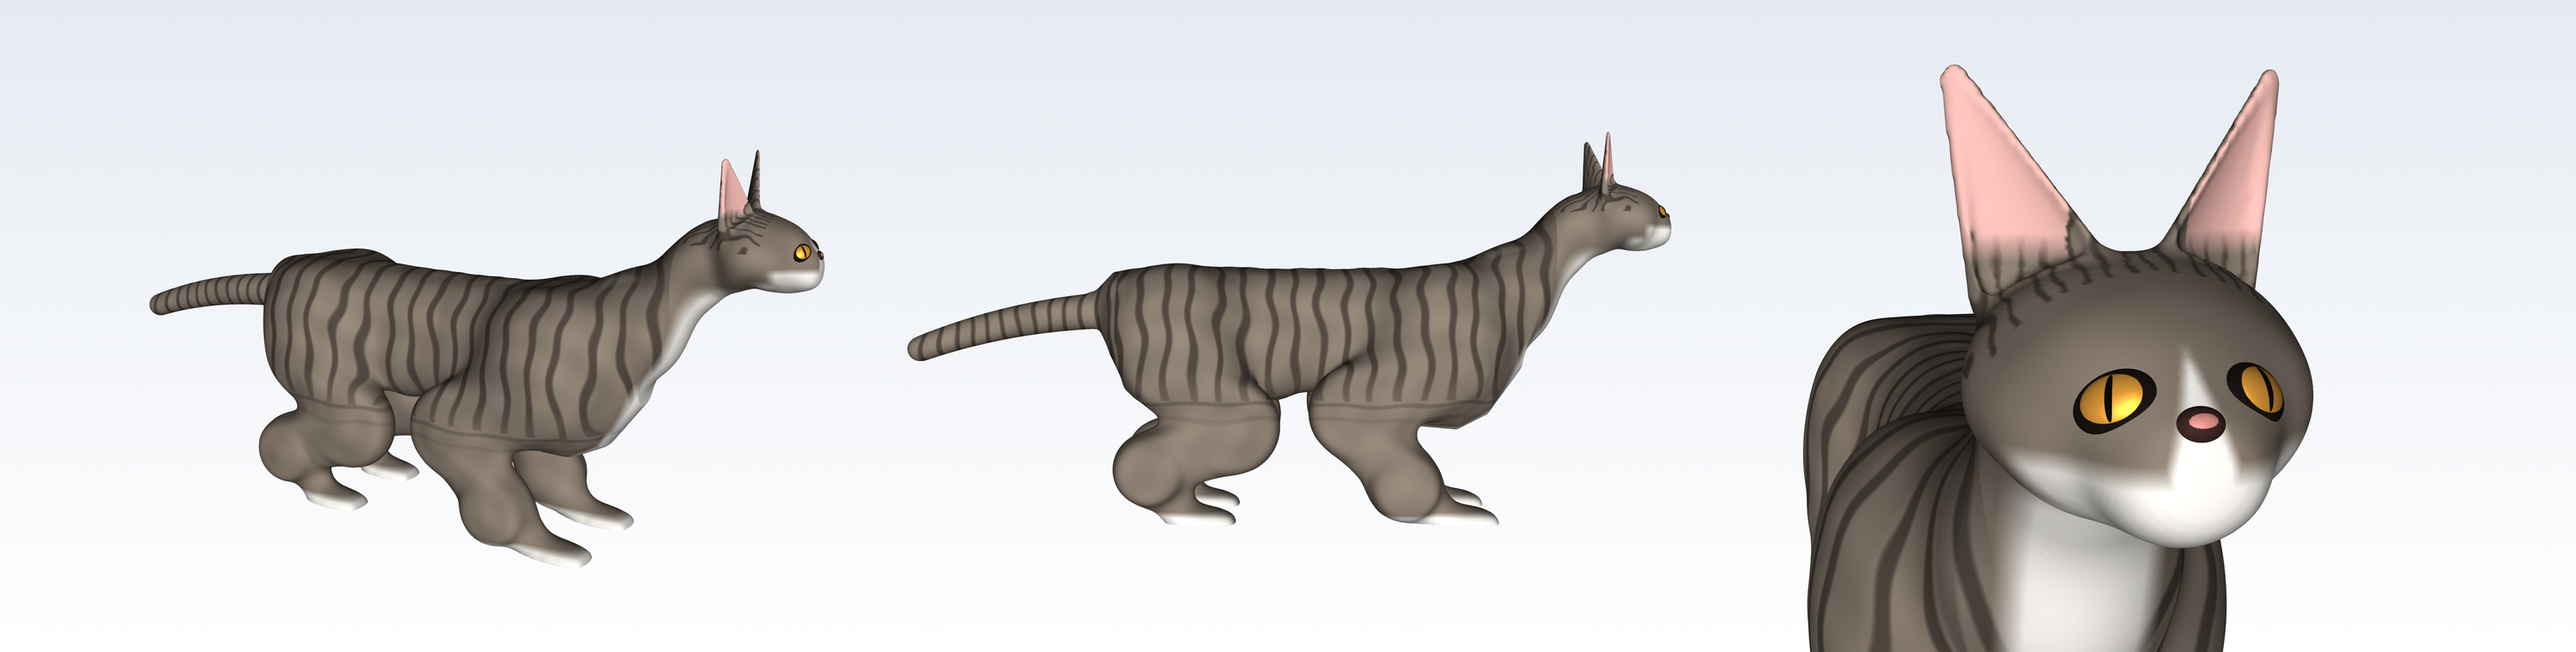
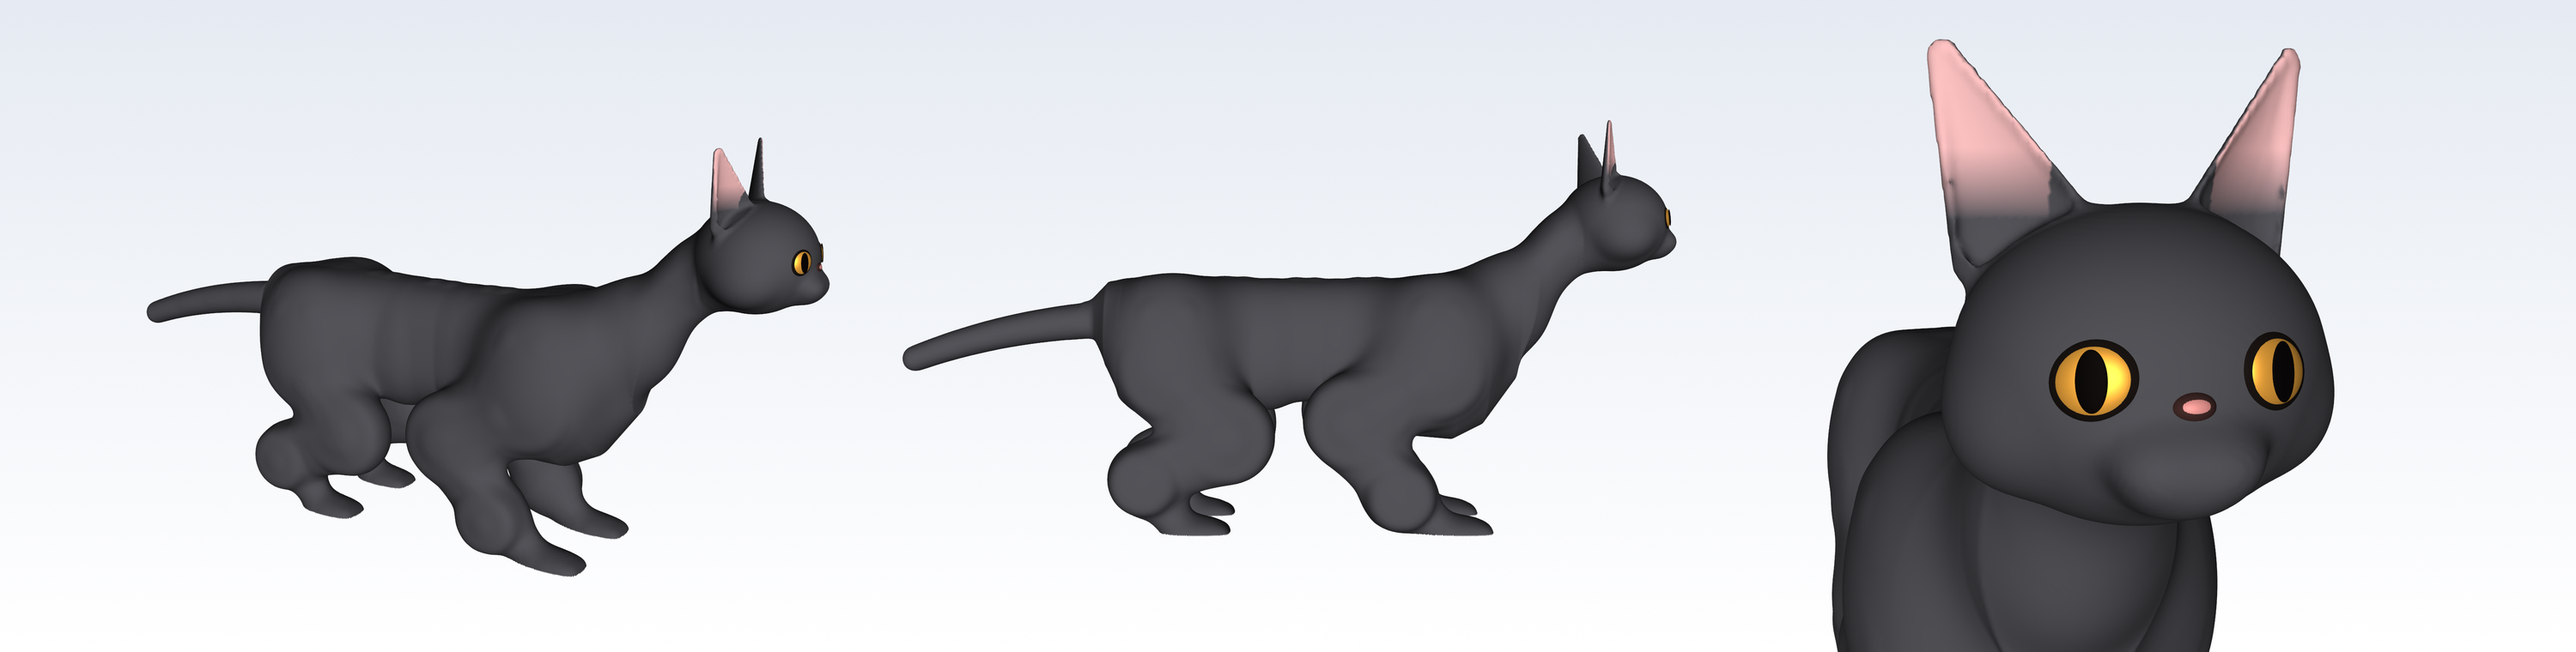
M129 revised again: a charcoal-grey coat, and a cat's head that the skull only has to fit inside (ADR-0120)
- The tabby pattern is dropped (done roughly it reads as creepy): one
  charcoal grey, pink inside the ears.
- In the head the structure's offset is faded out (x > 360 over 20 mm), so
  the head is drawn as a cat's -- 120 mm across against the skull's 74, a
  round forehead, cheeks set back and wide, a small muzzle and chin, ears
  56 mm tall -- and the skull only has to fit inside: clearance 8.56 mm.
- Big almond eyes with a wide oval pupil, placed as thin discs on the iris.
- Foam 124 g (head 54 g), +16.3 % pitch inertia; knit 117 g, +11.2 %.
- CAT_SUIT_VOXEL sets a coarser grid when memory is short (built at 1.5 mm).

Changed region(s): [[0.682, 0.0605, 0.93, 1.0], [0.031, 0.2118, 0.341, 0.8776], [0.341, 0.2118, 0.651, 0.8474]]

diff --git a/mechanical/cad/cat_suit.py b/mechanical/cad/cat_suit.py
@@ -58,7 +58,7 @@ from tomcat_kin import LegModel                                  # noqa: E402
 from tomcat_kin.params import DEFAULT_FORELEG, DEFAULT_HINDLEG   # noqa: E402
 
 #: Grid spacing of the field, mm.
-VOXEL = 1.25
+VOXEL = float(os.environ.get("CAT_SUIT_VOXEL", "1.25"))   # coarser for a preview
 #: How far the suit stands off every structural surface, at least, mm. The
 #: same 2.0 mm `tomcat_skin.CLEAR` holds, plus a voxel's worth of meshing error.
 OFFSET = 2.0 + VOXEL
@@ -69,7 +69,7 @@ CLEAR = SK.CLEAR
 #: what the face is made of.  `[assumed]`
 PAD = 6.0
 #: The deepest the foam is laid, mm: the face's cheeks and chin, the chest.
-FOAM_MAX = 25.0
+FOAM_MAX = 35.0
 #: How much the structure's offset is blurred before the foam follows it, mm.
 SMOOTH = 4.0
 #: Foam densities priced, kg/m^3: the soft PU foam chosen, and a silicone foam
@@ -171,31 +171,36 @@ SLEEVE = (
     (9.0 + PAD, 7.5 + PAD, 53.0, 11.0 + PAD),                      # paw
 )
 
-#: ✅ M129: the face the skull does not have, `(name, centre, radii)` mm in
-#: trunk coordinates, mirrored for the paired ones. The traced skull is a dry
-#: skull: its underside runs flat at z 118-128 from the nose back, with no
-#: mandible, no cheek and no muzzle pad, so a cover drawn over it is a beak.
-#: ⚠ M129's first face was a ball -- crown, cheeks and muzzle all round, ears
-#: small -- and it read as a cartoon dinosaur, not a cat. A cat's face is a
-#: WEDGE: the width is at the cheekbones under the eyes, and it narrows to a
-#: small muzzle and a small chin; the ears are what make the head's outline.
-#: Proportions from the owner's cat, read off a frontal photograph (not in the
-#: repo): ears 0.55 of the face's width tall on a base 0.45 of it, eyes 0.38
-#: of it apart, the muzzle 0.35 of it wide.  `[assumed]`
+#: ✅ M129: the HEAD, `(name, centre, radii)` mm in trunk coordinates,
+#: mirrored for the paired ones.
+#:
+#: ⚠ **Drawn as a cat's head, not over the skull.** The traced skull is a dry
+#: skull with no mandible, and two faces built ON it -- one round, one a wedge
+#: after the owner's cat -- both came out too small and the wrong shape: a
+#: cover follows what is under it, and what is under it is not a face. So in
+#: the head the structure's offset is faded out (`HEAD_FREE_X`) and these
+#: shapes alone make the head: bigger than the skull all round (108 mm across
+#: against its 74), a round forehead, full cheeks wider than the crown, a
+#: small muzzle and chin. The skull only has to fit inside, and the clearance
+#: check says whether it does.  `[assumed]`
 FACE = (
-    ("crown", (391.0, 0.0, 154.0), (40.0, 41.0, 28.0)),
-    ("cheek", (403.0, 24.0, 145.0), (21.0, 18.0, 15.0)),
-    ("whisker pad", (438.0, 8.0, 131.0), (9.5, 9.0, 8.5)),
-    ("chin", (428.0, 0.0, 122.0), (15.0, 11.0, 9.0)),
-    ("muzzle", (432.0, 0.0, 135.0), (16.0, 15.0, 12.0)),
+    ("head", (402.0, 0.0, 152.0), (56.0, 60.0, 51.0)),
+    ("cheek", (404.0, 42.0, 138.0), (26.0, 20.0, 22.0)),
+    ("muzzle", (450.0, 0.0, 134.0), (13.0, 18.0, 11.0)),
+    ("whisker pad", (456.0, 9.0, 131.0), (9.0, 10.0, 8.0)),
+    ("chin", (446.0, 0.0, 122.0), (11.0, 12.0, 7.0)),
 )
 #: Blend radius of the face, mm.
-K_FACE = 9.0
-#: The ears, `(base, tip, base radius, tip radius)` mm, thin fore-and-aft by
-#: `EAR_THIN`, and CUPPED: a cat's ear is a scoop open to the front, not a
-#: plate. 52 mm tall on a 42 mm base, leaning out 21 deg -- the owner's
-#: cat's, scaled to this face.  `[assumed]`
-EAR = ((385.0, 25.0, 176.0), (379.0, 45.0, 229.0), 21.0, 4.5)
+K_FACE = 10.0
+#: Where the structure stops shaping the suit: its offset fades out over
+#: `HEAD_FADE` mm forward of this x, and the head is `FACE` alone.
+HEAD_FREE_X = 360.0
+HEAD_FADE = 20.0
+#: The ears, `(base, tip, base radius, tip radius)` mm, thin along the way
+#: they open by `EAR_THIN`, and CUPPED: a cat's ear is a scoop open to the
+#: front, not a plate. Set on the head's upper sides, 54 mm tall, leaning out.
+#: `[assumed]`
+EAR = ((390.0, 36.0, 192.0), (382.0, 58.0, 248.0), 25.0, 6.0)
 EAR_THIN = 3.0
 #: How deep the front of the ear is scooped, mm.
 EAR_CUP = 2.6
@@ -416,6 +421,13 @@ def field(points, stats=None):
     # through it. Blurring a distance field pulls it in round sharp features,
     # and the clearance check measures what that costs.
     F = ndimage.gaussian_filter(dist, SMOOTH / VOXEL) - (OFFSET + PAD)
+    # the head is FACE alone: fade the structure's offset out forward of
+    # HEAD_FREE_X (above the chest), so the skull shapes nothing
+    xs = lo[0] + VOXEL * np.arange(n[0])
+    zs0 = lo[2] + VOXEL * np.arange(n[2])
+    fade = np.clip((xs - HEAD_FREE_X) / HEAD_FADE, 0.0, 1.0)[:, None, None] \
+        * np.clip((zs0 - 90.0) / 10.0, 0.0, 1.0)[None, None, :]
+    F += (60.0 * fade).astype(np.float32)
     # the cat, one x-slab at a time
     ys = lo[1] + VOXEL * np.arange(n[1])
     zs = lo[2] + VOXEL * np.arange(n[2])
@@ -685,11 +697,11 @@ def report(cache=None, pd=None, points=None, st=None):
 #: placed where its ray leaves the suit. The eyes are ALMONDS set into the
 #: face looking forward -- an amber iris, a slit pupil, a dark rim -- and the
 #: nose a small pink wedge with a dark edge: the owner's cat's.  `[assumed]`
-EYE = ((404.0, 15.5, 150.0), (0.99, 0.08, 0.10))
+EYE = ((424.0, 24.0, 155.0), (0.99, 0.12, 0.05))
 #: Eye half-sizes, mm: (depth, width, height).
-EYE_R = (4.5, 9.5, 7.2)
-NOSE = ((430.0, 0.0, 139.0), (0.92, 0.0, 0.40))
-NOSE_R = (3.5, 5.5, 3.8)
+EYE_R = (5.0, 12.5, 11.0)
+NOSE = ((440.0, 0.0, 140.0), (0.90, 0.0, 0.43))
+NOSE_R = (3.5, 6.0, 4.0)
 
 
 def _surface(F, lo, p0, d, reach=90.0):
@@ -738,9 +750,12 @@ def face_features(F, lo):
         tilt = -12.0 * sgn                      # the almond's outer corner up
         out.append(("rim", c - 0.6 * d, (dz, wy + 1.4, hz + 1.2), d, tilt))
         out.append(("iris", c, (dz, wy, hz), d, tilt))
-        out.append(("pupil", c + 1.5 * d, (dz * 0.8, 1.7, hz * 0.85), d, 0.0))
-        g = c + 0.55 * dz * d + np.array([0.0, -2.8 * sgn, 2.6])
-        out.append(("glint", g, (1.3, 1.6, 1.6), d, 0.0))
+        # a wide oval pupil -- a slit reads as fierce
+        # ⚠ a thin disc ON the iris's front: set inside it, only a sliver
+        # of the pupil and none of the catch-light showed
+        out.append(("pupil", c + (dz - 0.35) * d, (0.8, 4.6, hz * 0.80), d, 0.0))
+        g = c + (dz - 0.2) * d + np.array([0.0, -3.0 * sgn, 3.0])
+        out.append(("glint", g, (0.9, 1.9, 1.9), d, 0.0))
     s, _ray = _surface(F, lo, *NOSE)
     d = _normal(F, lo, s)
     out.append(("nose rim", s - 0.6 * NOSE_R[0] * d, tuple(r + 0.8 for r in NOSE_R), d, 0.0))
@@ -749,71 +764,24 @@ def face_features(F, lo):
 
 
 # --------------------------------------------------------------------- coat
-#: The owner's cat's coat: a brown-grey mackerel tabby with white -- a white
-#: blaze up the nose, a white muzzle, chin, throat, chest and paws -- warm
-#: orange round the eyes, pink inside the ears.  `[assumed]`
-COAT = {
-    "base": (0.50, 0.45, 0.40), "stripe": (0.22, 0.19, 0.17),
-    "white": (0.95, 0.94, 0.92), "orange": (0.78, 0.52, 0.32),
-    "pink": (0.93, 0.71, 0.68),
-}
-
-
-def _noise(P, scale):
-    """A cheap smooth noise: a few incommensurate sines."""
-    x, y, z = P[:, 0] / scale, P[:, 1] / scale, P[:, 2] / scale
-    return (np.sin(1.7 * x + 2.3 * y + 0.5) * np.sin(1.3 * z - 0.9 * x + 1.1)
-            + 0.5 * np.sin(3.1 * y + 2.9 * z + 0.3 * x))
-
-
-def _mix(a, b, w):
-    return a * (1 - w[:, None]) + np.asarray(b) * w[:, None]
+#: ✅ A charcoal-grey coat, one colour, with pink inside the ears. A tabby
+#: pattern was tried and dropped: a pattern done roughly reads as worse than
+#: none.  `[assumed]`
+COAT = {"fur": (0.27, 0.27, 0.29), "pink": (0.90, 0.68, 0.68)}
 
 
 def coat(P, N):
     """Per-vertex colour, 0..1, of the suit at points P with outward normals N."""
     x, y, z = P[:, 0], P[:, 1], P[:, 2]
-    C = np.tile(np.asarray(COAT["base"], float), (len(P), 1))
-    C *= (1.0 + 0.05 * _noise(P, 20.0))[:, None]        # mottling
-    head = x > 330.0
-    # mackerel stripes: across the body (dorsal to ventral), ringing the
-    # legs and the tail, and the forehead's "M" lines on the crown
-    leg = z < -40.0
-    tail = x < TT.BODIES[0][0] - 10.0
-    phase = np.where(tail, x / 17.0, np.where(leg, z / 16.0, x / 26.0))
-    phase = phase + 0.15 * _noise(P, 30.0)
-    crown = head & (z > 152.0) & (x < 412.0)
-    phase = np.where(crown, y / 6.0 + 0.2 * _noise(P, 8.0), phase)
-    band = np.clip((np.sin(2 * np.pi * phase) - 0.45) * 2.6, 0.0, 1.0)
-    band *= np.clip((z + 70.0) / 60.0, 0.0, 1.0) * np.where(head & ~crown, 0.0, 1.0)
-    C = _mix(C, COAT["stripe"], 0.80 * band)
-    # a tabby is darker along the spine
-    C = _mix(C, COAT["stripe"], 0.35 * np.clip((z - 70.0) / 40.0, 0.0, 1.0) * (~head))
-    # the white: belly and chest underneath, throat and chin, the muzzle and
-    # a blaze up the nose between the eyes, and the paws
-    under = np.clip((-30.0 - z) / 16.0, 0.0, 1.0) * np.clip((x - 120.0) / 40.0, 0.0, 1.0) \
-        * np.clip((32.0 - np.abs(y)) / 8.0, 0.0, 1.0) * np.clip((z + 95.0) / 10.0, 0.0, 1.0)
-    throat = np.clip((x - 255.0) / 25.0, 0.0, 1.0) * np.clip((118.0 - z) / 16.0, 0.0, 1.0) \
-        * np.clip((30.0 - np.abs(y)) / 10.0, 0.0, 1.0)
-    muzzle = np.clip((x - 418.0) / 8.0, 0.0, 1.0) * np.clip((140.0 - z) / 6.0, 0.0, 1.0)
-    chin = np.clip((x - 400.0) / 10.0, 0.0, 1.0) * np.clip((128.0 - z) / 6.0, 0.0, 1.0)
-    blaze_w = np.clip(10.0 - 0.32 * (z - 138.0), 2.0, 10.0)      # narrowing upward
-    blaze = np.clip((x - 404.0) / 6.0, 0.0, 1.0) * np.clip((blaze_w - np.abs(y)) / 3.0, 0.0, 1.0) \
-        * np.clip((166.0 - z) / 5.0, 0.0, 1.0) * np.clip((N[:, 0] + 0.2) * 2.0, 0.0, 1.0)
-    paws = np.clip((-155.0 - z) / 6.0, 0.0, 1.0)
-    white = np.clip(np.maximum.reduce([under, throat, muzzle, chin, blaze, paws]), 0.0, 1.0)
-    C = _mix(C, COAT["white"], white)
-    # orange round the eyes and over the cheekbones
-    for sgn in (-1.0, 1.0):
-        d2 = ((x - 410.0) / 14.0) ** 2 + ((y - 24.0 * sgn) / 14.0) ** 2 + ((z - 147.0) / 12.0) ** 2
-        C = _mix(C, COAT["orange"], 0.75 * np.clip(1.4 - d2, 0.0, 1.0) * (1 - white))
-    # the ears: pink in the scoop that faces forward
+    C = np.tile(np.asarray(COAT["fur"], float), (len(P), 1))
+    # the ears: pink in the scoop that faces forward-and-out
     base, tip, _rb, _rt = EAR
-    in_ear = (z > base[2] + 4.0) & (np.abs(np.abs(y) - 0.5 * (base[1] + tip[1])) < 18.0)
+    in_ear = (z > base[2] + 6.0) & (np.abs(np.abs(y) - 0.5 * (base[1] + tip[1])) < 20.0)
     ph = math.radians(EAR_TURN)
     facing = N[:, 0] * math.cos(ph) + np.abs(N[:, 1]) * math.sin(ph) * np.sign(y * N[:, 1])
-    front = np.clip((facing - 0.25) * 2.5, 0.0, 1.0)
-    C = _mix(C, COAT["pink"], (in_ear * front * np.clip((z - base[2] - 4.0) / 8.0, 0, 1)))
+    w = in_ear * np.clip((facing - 0.25) * 2.5, 0.0, 1.0) \
+        * np.clip((z - base[2] - 6.0) / 22.0, 0.0, 1.0) ** 0.7
+    C = C * (1 - w[:, None]) + np.asarray(COAT["pink"]) * w[:, None]
     return np.clip(C, 0.0, 1.0)
 
 
@@ -825,7 +793,7 @@ FEATURE = {"rim": (0.10, 0.08, 0.07), "iris": (0.86, 0.60, 0.22),
 #: `(name, elevation, azimuth, focus, distance)`: the whole cat twice, and the
 #: face from the front, as the photograph sees it.
 VIEWS = (("3/4", 14, -58, None, 1300.0), ("side", 2, -90, None, 1300.0),
-         ("face", 9, -16, (408.0, 0.0, 165.0), 320.0))
+         ("face", 8, -16, (410.0, 0.0, 165.0), 380.0))
 
 
 def _ellipsoid_actor(c, r, axis, tilt, colour, specular):

diff --git a/tests/test_cat_suit.py b/tests/test_cat_suit.py
@@ -58,30 +58,32 @@ def test_the_suit_is_OPEN_at_the_soles():
     assert p[3][1] < CS.SOLE_Z < p[2][1], "the pads show; the ankle is covered"
 
 
-def test_the_FACE_gives_the_skull_what_bone_does_not():
-    """✅ M129 (ADR-0120): the traced skull is a dry skull -- its underside
-    runs flat at z 118-128 with no mandible -- so the face is foam, with a chin
-    below the bone.
+def test_the_HEAD_is_a_cat_s_not_the_skull_s():
+    """✅ M129 (ADR-0120): the head is drawn as a cat's head and the skull only
+    has to fit inside it.
 
-    ⚠ And it is a WEDGE, not a ball. The first foam face was round all over
-    with small ears, and it read as a cartoon dinosaur. A cat is widest at
-    the cheekbones, narrows to a small muzzle and chin, and its ears -- more
-    than half the face's width tall -- make the head's outline."""
+    ⚠ Two faces drawn OVER the traced skull -- a dry skull with no mandible --
+    came out too small and the wrong shape (one round, one a narrow wedge),
+    because a cover follows what is under it. In the head the structure's
+    offset is faded out and `FACE` alone makes the shape: bigger than the
+    skull all round, widest at the cheeks, a small muzzle and chin, big ears."""
     import tomcat_head as HD
     st = HD._stations()
     skull = [r for r in st if r[0] >= HD.NOSE_X - 0.85 * HD.HEAD_L]
     under = min(r[2] for r in skull)
+    wide = max(r[3] for r in skull)
     face = {nm: (np.asarray(c), np.asarray(r)) for nm, c, r in CS.FACE}
+    hc, hr = face["head"]
+    assert hr[1] > wide + 15.0, "the head is well wider than the skull"
+    assert hc[2] + hr[2] > HD.cranium_top() + 25.0, "a round forehead above it"
     c, r = face["chin"]
     assert c[2] - r[2] < under, "a chin below the bone"
     cheek = face["cheek"][0][1] + face["cheek"][1][1]
-    muzzle = face["muzzle"][1][1]
-    chin = face["chin"][1][1]
-    assert chin < muzzle < cheek, "widest at the cheeks, narrowing to the chin"
+    assert face["chin"][1][1] < face["muzzle"][1][1] < hr[1] < cheek, (
+        "widest at the cheeks, a small muzzle and a smaller chin")
     base, tip, rb, _rt = CS.EAR
-    assert tip[2] - base[2] > 0.55 * cheek * 2 * 0.9, "ears over half the face tall"
-    assert 2 * rb > 0.4 * cheek * 2, "on a broad base"
-    assert CS.EAR_TURN > 0.0, "and opening forward-and-out"
+    assert tip[2] - base[2] > 50.0 and 2 * rb > 45.0, "big ears"
+    assert CS.HEAD_FREE_X > HD.BASE_X, "the skull stops shaping it only in the head"
 
 
 def test_the_EYES_look_FORWARD():

diff --git a/docs/DESIGN_DECISIONS.md b/docs/DESIGN_DECISIONS.md
@@ -9631,6 +9631,30 @@ The MuJoCo harness moved four numbers, and three of them moved the good way.
     is the head's mass-model posture (`tomcat_head`, from the wildcat trace),
     which the suit has to cover, not choose. The legs are as thick as the
     sheaves inside them. And the fur has no whiskers.
+- **⚠ REVISED again: one colour, and a head that is a cat's, not the
+  skull's.** The owner's reading of the tabby version:
+  - **The pattern went.** A tabby done roughly looks creepy, and worse than
+    no pattern at all. The coat is one charcoal grey (0.27, 0.27, 0.29), with
+    pink inside the ears.
+  - **The head no longer follows the bone.** Both faces before this one were
+    drawn OVER the traced skull, which has no mandible, and both came out too
+    small and the wrong shape: a cover follows what is under it. In the head
+    (forward of x 360, fading in over 20 mm, above z 90) the structure's offset
+    is switched off, and `FACE` alone makes the shape. That shape is a head
+    56 × 60 × 51 mm in half-size, 120 mm across where the skull is 74; a round
+    forehead 33 mm above the cranium; cheeks set back and wide (to y ±62); a
+    small muzzle, whisker pads and a chin. The ears are 56 mm tall on a 50 mm
+    base. The eyes are 25 × 22 mm almonds with a wide oval pupil (a slit read
+    as fierce), on the surface normal. The skull only has to fit inside, and
+    the clearance check holds it: **8.56 mm** at least, everywhere.
+  - Cost: the bigger head is mostly foam on the longest lever. The foam shell
+    is 4146 cm³ (1799 in the head and neck), **124 g of PU foam, of which the
+    head is 54 g**, adding **+16.3 %** of the body's pitch inertia (the head
+    alone +11.1 %). The knit is 117 g and +11.2 %. Together the skin is now
+    **~240 g and ~27 % of the body's pitch inertia**. If the righting does not
+    close with it (M130), the head's foam is the lever to trim.
+  - Built at a 1.5 mm grid (`CAT_SUIT_VOXEL`) because the machine had 3.6 GB
+    free. 1.25 mm remains the default.
 
 ---
 

diff --git a/README.md b/README.md
@@ -8,8 +8,8 @@ not driven by a motor at each joint.
 
 ![the cat in its skin](docs/figures/cat_suit_m129.png)
 
-*In its skin: a plush knit on a soft foam shell, in a brown tabby-and-white
-coat, with a face made of foam where the skull has no jaw ([ADR-0119](docs/DESIGN_DECISIONS.md),
+*In its skin: a charcoal-grey plush knit on a soft foam shell, and a cat's
+head made of foam round a skull that has no jaw ([ADR-0119](docs/DESIGN_DECISIONS.md),
 [ADR-0120](docs/DESIGN_DECISIONS.md)). Under it, the robot as designed:*
 
 ![the whole robot](docs/figures/whole_robot_m127.png)
